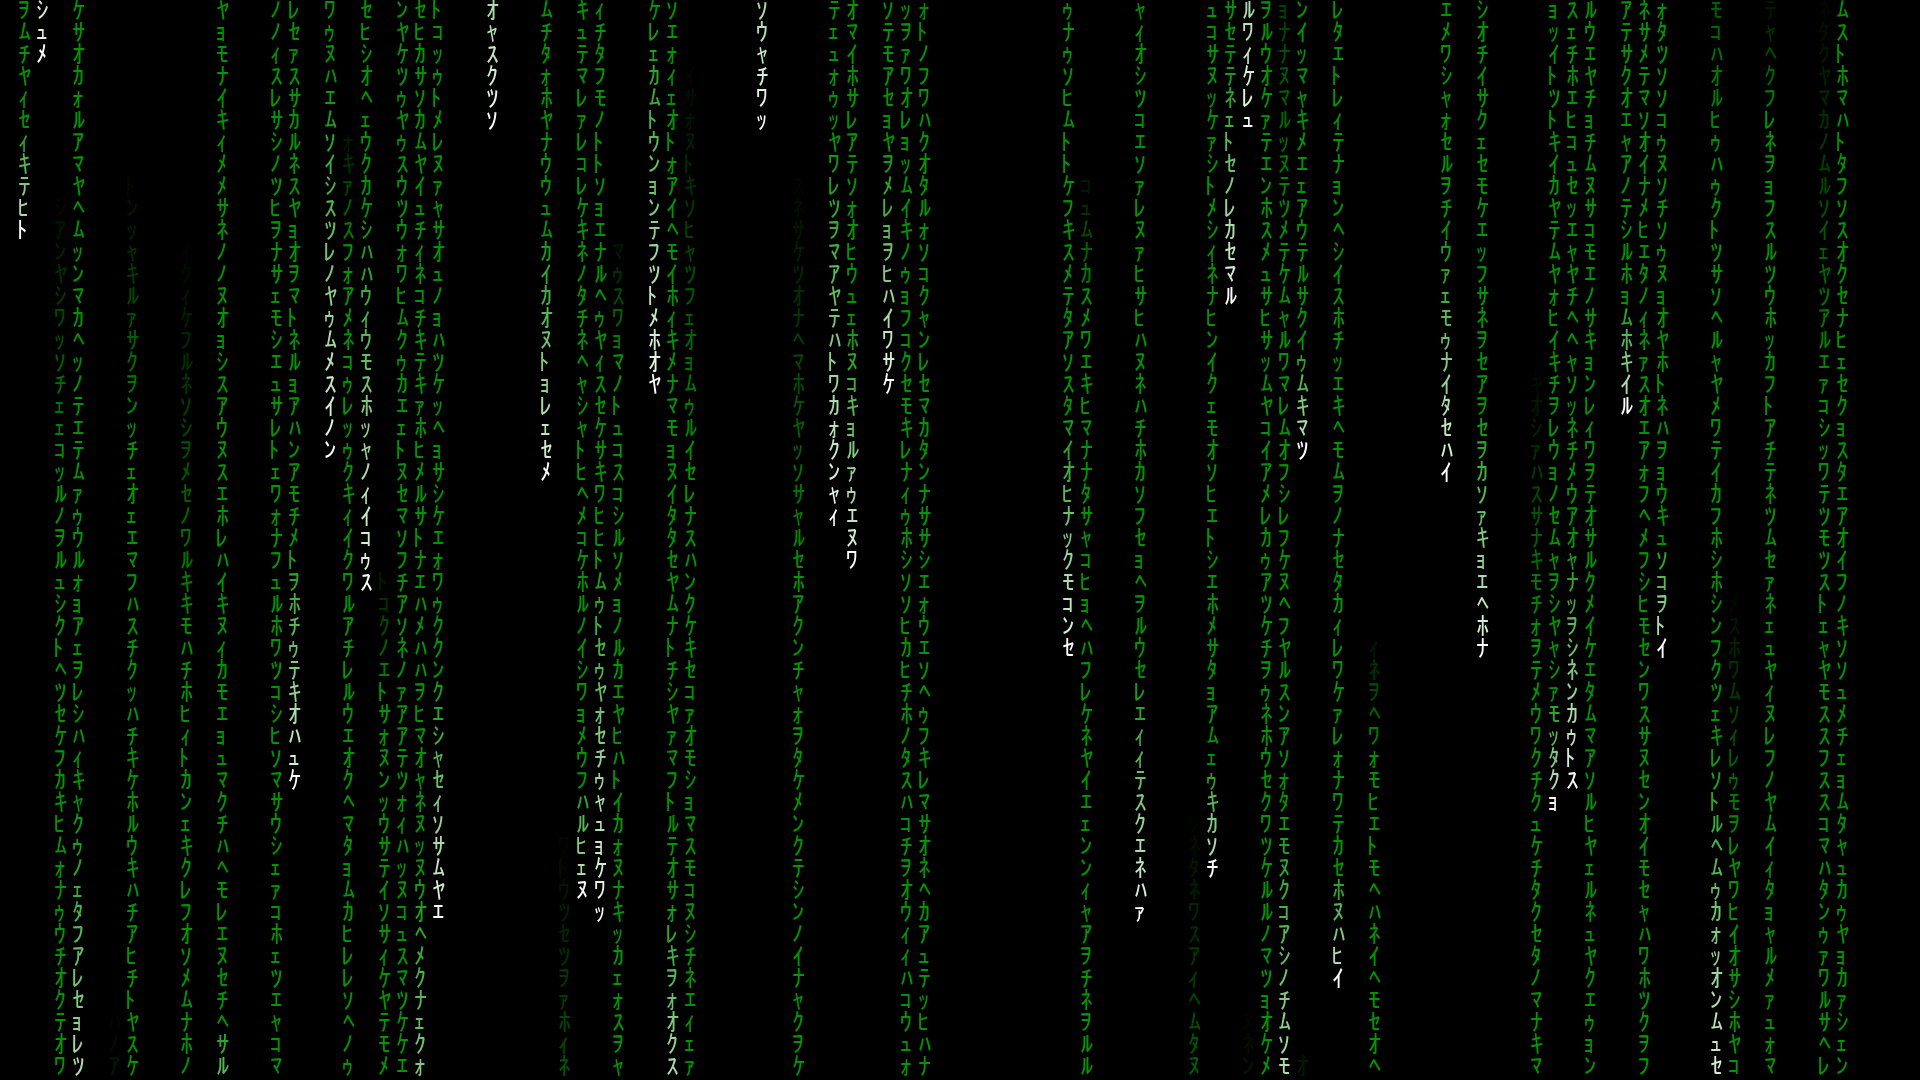
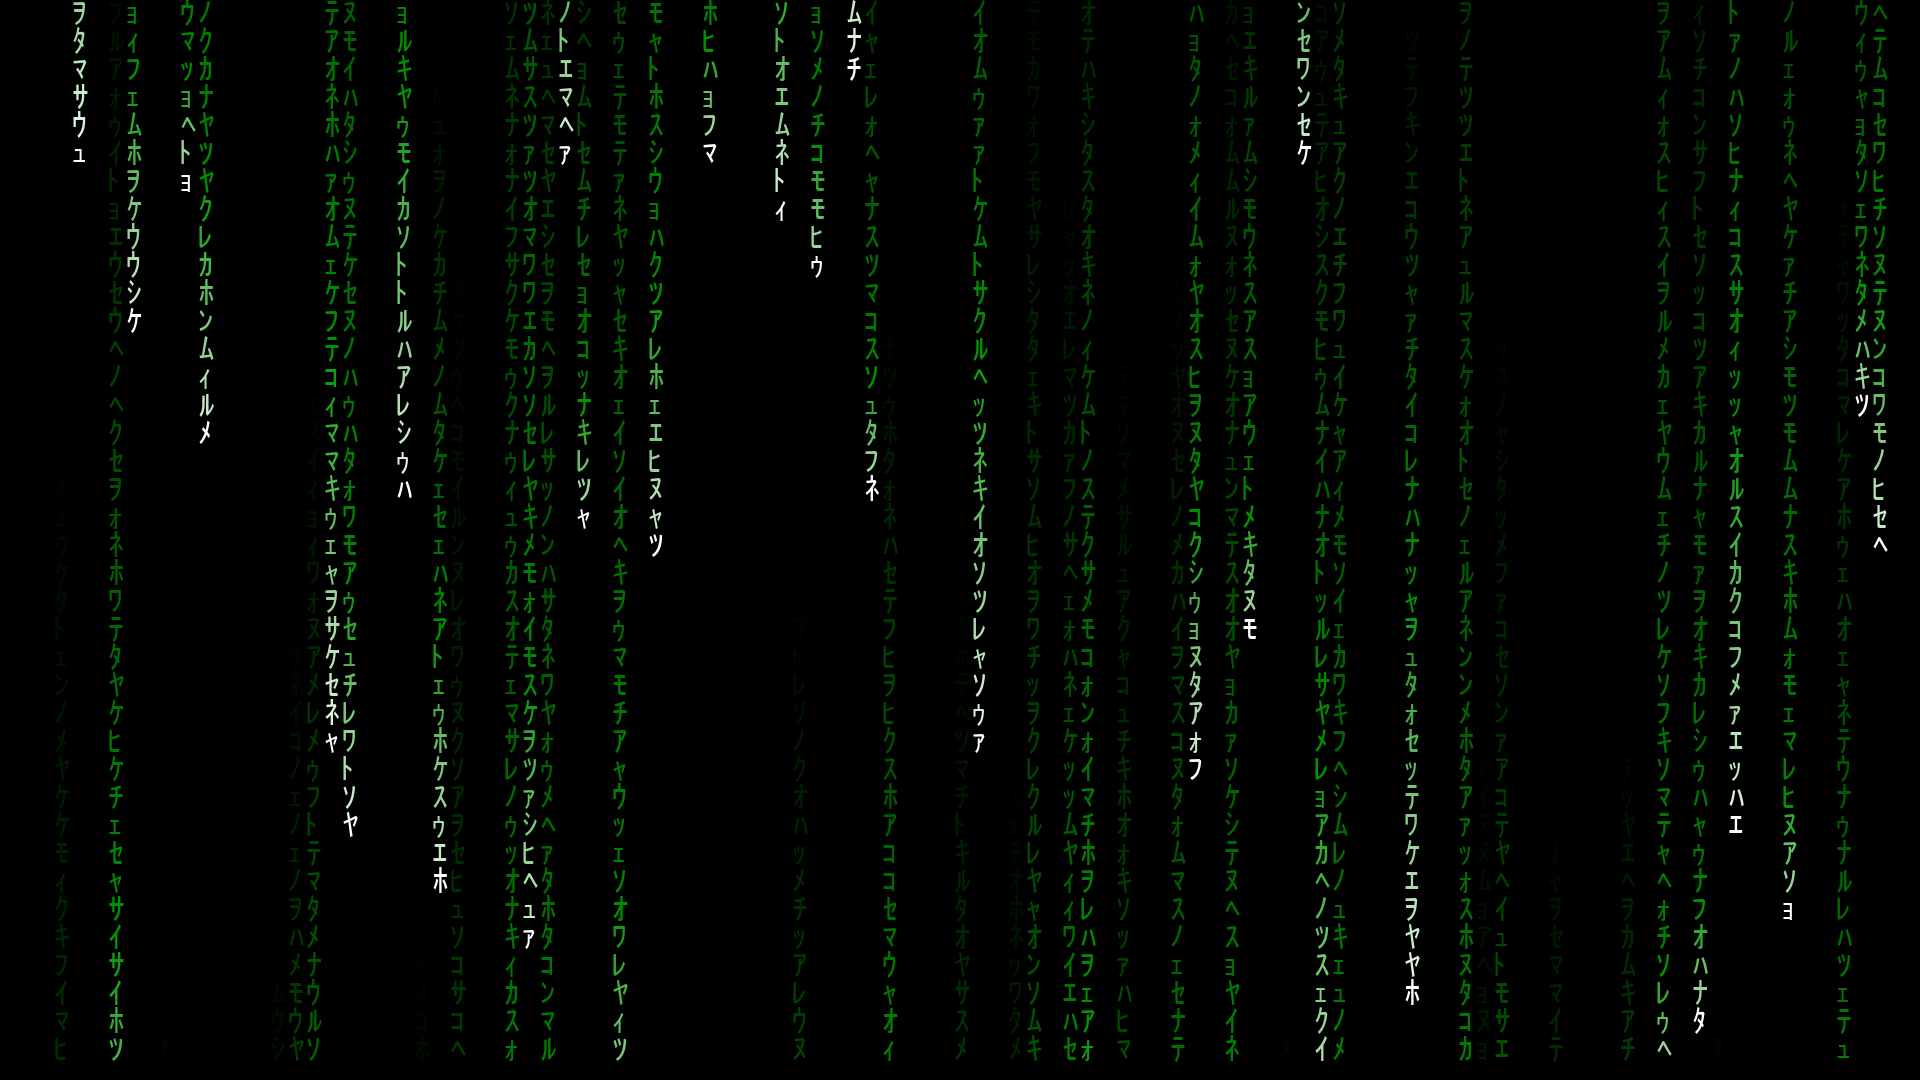
-updated to use rgba(32bit) or rgb(24bit)) colors -re-write CharacterSegmentRGB to include alpha channel, changes to trail transition. Class now CharacterSegmentRGBA

diff --git a/script/classes.py b/script/classes.py
@@ -4,6 +4,7 @@ import random, math
 from PIL import ImageFont, Image, ImageDraw
 from config import *
 
+
 def define_segment():
         segment: object = CharacterSegment(
             seed_string = SEED_STRING,
@@ -32,6 +33,36 @@ class Grid:
             self.column_coords.append(column_spacing * column)
         for row in range(self.total_rows):
             self.row_coords.append(row_spacing * row)
+
+#-------------------------------------------------------------------------------------------------------
+class Renderer:
+    def __init__(self, image_width: int, image_height: int, font_face: str, font_size: int, background_color: list[int], alpha_enabled: bool):
+        self.image_width = image_width # output image canvas width
+        self.image_height = image_height # output image canvas height
+        self.bg_color = (background_color[0], background_color[1], background_color[2], background_color[3]) # output image background fill color (rgb)
+        self.font: object = ImageFont.truetype(font_face, font_size) # stores font data
+        self.image: object = None # stores image data
+        self.draw: object = None
+        self.alpha_enabled = alpha_enabled
+        self.new_image()
+
+    def new_image(self):
+        # over-write current image object data with background color
+        if self.alpha_enabled is True:
+            image_mode = 'RGBA'
+        else:
+            image_mode = 'RGB'
+        self.image = Image.new(image_mode, (self.image_width, self.image_height), self.bg_color)
+        self.draw = ImageDraw.Draw(self.image)
+
+    def draw_character(self, character: str, pixel_x: int, pixel_y: int, color: list[int]):
+        # render text at pixel x,y coords
+        self.draw.text((pixel_x, pixel_y), character, fill = color, font = self.font)
+
+    def save_image(self, file_path: str):
+        # set path and save image data to file as png
+        ext_path = f'{file_path}.png'
+        self.image.save(ext_path)
 
 #-------------------------------------------------------------------------------------------------------
 class CharacterSegment:
@@ -65,72 +96,59 @@ class CharacterSegment:
             self.characters.pop(0)
 
 #-------------------------------------------------------------------------------------------------------
-class CharacterSegmentRGB:
+class CharacterSegmentRGBA:
     def __init__(self, main_color: list[int], leader_color: list[int], background_color: list[int], min_transition_length: int):
         self.color_a = main_color
         self.color_b = leader_color
         self.bg_color = background_color
         self.min_trans_length = min_transition_length
 
-    def make_rgb_list(self, segment_length: int, segment_speed_mult: int):
-        rgb_colors_list: list[int] = []
+    def make_rgba_list(self, segment_length: int, segment_speed_mult: int):
+        # set transition lengths, grow lead trail for speed, trail transition as remainder of segment
+        lead_trans_length: int = self.min_trans_length * segment_speed_mult
+        trail_trans_length: int = segment_length - lead_trans_length
+        # set step multipliers, used to calc fraction of value deltas applied each character
+        lead_step_multiplier: float = 1 / lead_trans_length
+        trail_step_multiplier: float = 1 / trail_trans_length
+        # set total deltas (from color, to color)
+        lead_total_delta: list[int] = self.get_rgba_delta(self.color_b, self.color_a)
+        trail_total_delta: list[int] = self.get_rgba_delta(self.color_a, self.bg_color)
+        # init rgba list and first color, start first color as color b
+        rgba_list = []
+        rgba = [self.color_b[0], self.color_b[1], self.color_b[2], self.color_b[3]]
+        # loop for each character in segment, add rgba color to list
         for character in range(segment_length):
-            rgb_colors_list.append((self.color_a[0], self.color_a[1], self.color_a[2]))
-        return self.set_transitional_colors(rgb_colors_list, segment_speed_mult)
+            # lead transition color
+            if character <= lead_trans_length:
+                rgba = self.step_rgba(rgba, lead_total_delta, lead_step_multiplier)
+            # trail transition color
+            else:
+                rgba = self.step_rgba(rgba, trail_total_delta, trail_step_multiplier)
+            # add rgba color to rgba list
+            rgba_list.append((rgba[0], rgba[1], rgba[2], rgba[3]))
+        # re-apply leading character at full value for contrast
+        rgba_list[0] = (self.color_b[0], self.color_b[1], self.color_b[2], self.color_b[3])
+        return rgba_list
 
-    def set_transitional_colors(self, rgb_colors_list, speed_mult):
-        rgb_colors_list = rgb_colors_list
-        rgb_top = [self.bg_color[0], self.bg_color[1], self.bg_color[2]]
-        rgb_bottom = [self.color_b[0], self.color_b[1], self.color_b[2]]
-        dyn_length = self.min_trans_length * speed_mult
-        transition_multi = 1 / dyn_length
-        for character in range(dyn_length):
-            character_inv = (character + 1) * -1 # +1 and invert to address list top down
-            rgb_bottom = self.blend_rgb_values(rgb_bottom, self.color_b, transition_multi)
-            rgb_top = self.blend_rgb_values(rgb_top, self.bg_color, transition_multi)
-            rgb_colors_list[character] = (rgb_bottom[0], rgb_bottom[1], rgb_bottom[2])
-            rgb_colors_list[character_inv] = (rgb_top[0], rgb_top[1], rgb_top[2])
-        return rgb_colors_list
+    def get_rgba_delta(self, rgba_from, rgba_to):
+        # loop for r, g, b, a values, return difference of from - to as value deltas list
+        rgba_delta = [0, 0, 0, 0]
+        for value in range(len(rgba_delta)):
+            rgba_delta[value] = rgba_to[value] - rgba_from[value]
+        return rgba_delta
 
-    def blend_rgb_values(self, rgb_1, rgb_2, transition_multi):
-        rgb_out = [rgb_1[0], rgb_1[1], rgb_1[2]]
-        # loop for r, g, b values
-        for value in range(3):
-            difference = self.color_a[value] - rgb_2[value]
-            change_delta = round(difference * transition_multi)
-            rgb_out[value] += change_delta
-        return [rgb_out[0], rgb_out[1], rgb_out[2]]
-
-#-------------------------------------------------------------------------------------------------------
-class Renderer:
-    def __init__(self, image_width: int, image_height: int, font_face: str, font_size: int, background_color: list[int]):
-        self.image_width = image_width # output image canvas width
-        self.image_height = image_height # output image canvas height
-        self.bg_color = (background_color[0], background_color[1], background_color[2], ) # output image background fill color (rgb)
-        self.font: object = ImageFont.truetype(font_face, font_size) # stores font data
-        self.image: object = None # stores image data
-        self.draw: object = None
-        self.new_image()
-
-    def new_image(self):
-        # over-write current image object data with background color
-        self.image = Image.new('RGB', (self.image_width, self.image_height), self.bg_color)
-        self.draw = ImageDraw.Draw(self.image)
-
-    def draw_character(self, character: str, pixel_x: int, pixel_y: int, color: str):
-        # render text at pixel x,y coords
-        self.draw.text((pixel_x, pixel_y), character, fill = color, font = self.font)
-
-    def save_image(self, file_path: str):
-        # set path and save image data to file as png
-        ext_path = f'{file_path}.png'
-        self.image.save(ext_path)
+    def step_rgba(self, rgba_in, total_delta, step_mult):
+        # loop for r, g, b, a values, return rgba in + (total delta * step_mult) values list
+        rgba_out = rgba_in
+        for value in range(len(rgba_out)):
+            rgba_out[value] += math.floor(total_delta[value] * step_mult)
+        return rgba_out
 
 #-------------------------------------------------------------------------------------------------------
 class CharacterSegmentHandler:
-    def __init__(self, grid_object: object, segment_rgb_object: object, min_separation: int, max_separation: int):
+    def __init__(self, grid_object: object, segment_rgba_object: object, min_separation: int, max_separation: int):
         self.grid = grid_object
-        self.rgb_object = segment_rgb_object
+        self.rgba_object = segment_rgba_object
         self.segment_pool: object = []
         self.column_spawn_states: bool = []
         self.min_separation = min_separation
@@ -184,7 +202,7 @@ class CharacterSegmentHandler:
                 new_segment.row_id = -1 # cycle_segments will +1 before image output
                 new_segment.separation = random.randint(self.min_separation, self.max_separation)
                 new_segment.speed = self.column_speeds[column]
-                new_rgb_colors_list = self.rgb_object.make_rgb_list(new_segment.length, self.column_speeds[column])
+                new_rgb_colors_list = self.rgba_object.make_rgba_list(new_segment.length, self.column_speeds[column])
                 new_segment.character_colors = new_rgb_colors_list
                 self.segment_pool.append(new_segment)
 

diff --git a/script/config.py b/script/config.py
@@ -4,25 +4,26 @@
 IMAGE_NAME = "image" # prefixes output file name
 IMAGE_WIDTH = 1920
 IMAGE_HEIGHT = 1080
-BACKGROUND_COLOR = [0, 0, 0] # [R, G, B] 0 - 255
+BACKGROUND_COLOR = [0, 0, 0, 0] # [R, G, B, A] 0 - 255
 PRE_ITERATE = 500 # will iterate for this value before beginning output iterations
 OUTPUT_ITERATIONS = 500 # total output images / iterations that will be saved
-SAVE_ALL = True # if false, saves only single image after pre-iterations complete
+SAVE_ALL = False # if false, saves only single image after pre-iterations complete
+SAVE_ALPHA = False # if true will save as 32 bit RGBA
 OUTPUT_DIR = "images"  # supports relative path, path must exist
 
 # Character Segments
-#SEED_STRING = "ABCDEFGHIJKLMNOPQRSTUVWXYZ1234567890!@#$%&*()=+[]{};:<>/?"
-SEED_STRING = """abcdefghijklmnopqrstuvwxyz!"#%&()~+-/*=.,{}?$<>:"""
+#SEED_STRING = """ABCDEFGHIJKLMNOPQRSTUVWXYZ1234567890!@#$%&*()=+[]{};:<>/?""" # for standard fonts
+SEED_STRING = """abcdefghijklmnopqrstuvwxyz!"#%&()~+-/*=.,{}?$<>:""" # for 'matrix code nfi.ttf' font
 RANDOMIZE_STRING = True # if true, segments will ignore seed string order
-BASE_COLOR = [0, 150, 0] # [R, G, B] 0 - 255 (segment "body" color)
-ACCENT_COLOR = [255, 255, 255] # [R, G, B] 0 - 255 (segment "leader" color)
+BASE_COLOR = [0, 150, 0, 255] # [R, G, B, A] 0 - 255 (segment "body" color)
+ACCENT_COLOR = [255, 255, 255, 255] # [R, G, B, A] 0 - 255 (segment "leader" color)
 #FONT_FACE = 'consola.ttf'
 FONT_FACE = 'matrix code nfi.ttf' # must have font installed
-FONT_SIZE = 24 # should be adjusted with spacing
+FONT_SIZE = 30 # should be adjusted with spacing
 GRID_COLUMN_SPACING = 18 # grid column spacing
-GRID_ROW_SPACING = 22 # grid row spacing
-TRANSITION_LENGTH_MIN = 6 # min length of dynamic segment color transitions
-SEGMENT_LENGTH_MIN = 50 # upper limit for segment length randomization
+GRID_ROW_SPACING = 28 # grid row spacing
+TRANSITION_LENGTH_MIN = 5 # min length of dynamic segment color transitions
+SEGMENT_LENGTH_MIN = 30 # upper limit for segment length randomization
 SEGMENT_LENGTH_MAX = 100 # upper limit for segment length randomization
-SEGMENT_SEPARATION_MIN = 25 # upper limit for separation randomization
-SEGMENT_SEPARATION_MAX = 250 # lower limit for separation randomization
+SEGMENT_SEPARATION_MIN = 20 # upper limit for separation randomization
+SEGMENT_SEPARATION_MAX = 200 # lower limit for separation randomization

diff --git a/script/matrix.py b/script/matrix.py
@@ -4,14 +4,6 @@ import os, time
 from classes import *
 from config import *
 
-renderer: object = Renderer(
-    image_width = IMAGE_WIDTH,
-    image_height = IMAGE_HEIGHT,
-    font_face = FONT_FACE,
-    font_size = FONT_SIZE,
-    background_color = BACKGROUND_COLOR
-)
-
 grid: object = Grid(
     canvas_width = IMAGE_WIDTH,
     canvas_height = IMAGE_HEIGHT,
@@ -19,7 +11,16 @@ grid: object = Grid(
     row_spacing = GRID_ROW_SPACING
 )
 
-segmentRGB: object = CharacterSegmentRGB(
+renderer: object = Renderer(
+    image_width = IMAGE_WIDTH,
+    image_height = IMAGE_HEIGHT,
+    font_face = FONT_FACE,
+    font_size = FONT_SIZE,
+    background_color = BACKGROUND_COLOR,
+    alpha_enabled = SAVE_ALPHA
+)
+
+segmentRGBA: object = CharacterSegmentRGBA(
     main_color = BASE_COLOR,
     leader_color = ACCENT_COLOR,
     background_color = BACKGROUND_COLOR,
@@ -28,7 +29,7 @@ segmentRGB: object = CharacterSegmentRGB(
 
 segmentHandler: object = CharacterSegmentHandler(
     grid_object = grid,
-    segment_rgb_object = segmentRGB,
+    segment_rgba_object = segmentRGBA,
     min_separation = SEGMENT_SEPARATION_MIN,
     max_separation = SEGMENT_SEPARATION_MAX
 )

diff --git a/readme.md b/readme.md
@@ -1,0 +1,3 @@
+Requires Pillow, 
+Outputs a single or sequence of images, recommend ~15fps
+See script/config.py
